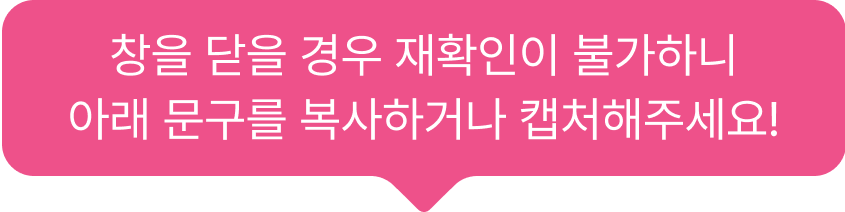
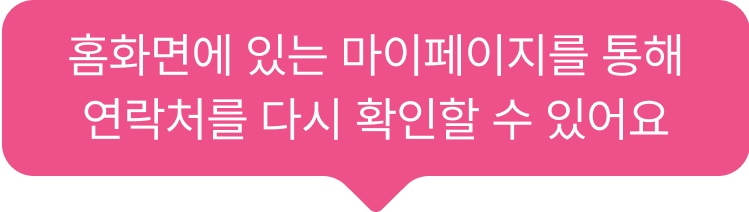
💄 툴팁 내용 변경

diff --git a/src/components/Explore/atoms/PopupModal.tsx b/src/components/Explore/atoms/PopupModal.tsx
@@ -151,7 +151,7 @@ const PopupModal = ({
                 </>
               ) : (
                 <>
-                  <div className="h-[53px] w-[211px] animate-flip-up bg-[url('/bubble.png')] bg-cover animate-normal animate-duration-[500ms] animate-once animate-ease-linear"></div>
+                  <div className="h-[53px] w-[187px] animate-flip-up bg-[url('/bubble.png')] bg-cover animate-normal animate-duration-[500ms] animate-once animate-ease-linear"></div>
                 </>
               )}
             </div>
